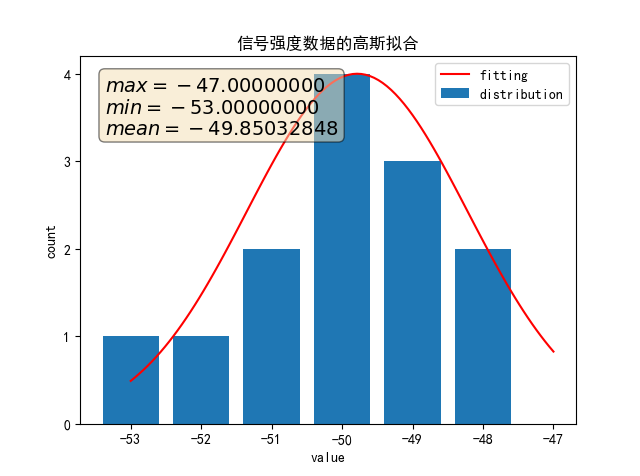
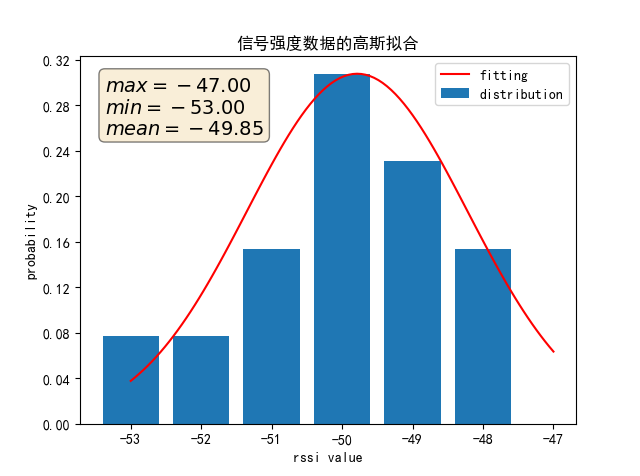
REDDME.md updated

diff --git a/location/pdr.py b/location/pdr.py
@@ -215,9 +215,9 @@ class Model(object):
                     counter[k] = counter[k]+1
         
         textstr = '\n'.join((
-            r'$max=%.8f$' % (acc_max, ),
-            r'$min=%.8f$' % (acc_min, ),
-            r'$mean=%.8f$' % (np.mean(data), )))
+            r'$max=%.3f$' % (acc_max, ),
+            r'$min=%.3f$' % (acc_min, ),
+            r'$mean=%.3f$' % (np.mean(data), )))
         _, ax = plt.subplots()
         props = dict(boxstyle='round', facecolor='wheat', alpha=0.5)
         ax.text(0.05, 0.95, textstr, transform=ax.transAxes, fontsize=14,

diff --git a/README.md b/README.md
@@ -28,8 +28,8 @@
 | **data** | **实验数据** |
 |:--|---|
 | data/count_steps | 正常直线行走数据，包含了安卓或苹果设备采集的数据，用来判断步伐检测的结果是否良好，其中安卓程序为自己开发的程序，苹果数据采集程序为phyphox（使用的时候注意修改属性名，方便后续程序使用）。 |
-| data/fusion01          | 第一次融合定位实验，由于安卓Wi-Fi扫描频率较低，不能满足事实定位，因为在实际实验的时候每一个状态维持的时间大约在3s以上，具体数据包含了：Fingerprint（指纹数据）、Rectangle（矩阵路线行走数据）和SType（S型路线行走数据）。 |
-| data/fusion02          | 第二次融合定位实验，具体数据包含了：Fingerprint（指纹数据）、LeftBorder（左边缘测试点）、RightBorder（右边缘测试点）和LType（L型路线行走数据）。 |
+| data/pdr       | 非正常行走数据（每一步停留了3s以上），Rectangle（矩阵路线行走数据）和SType（S型路线行走数据）。 |
+| data/fusion          | 融合定位实验，具体数据包含了：Fingerprint（指纹数据）、LeftBorder（左边缘测试点）、RightBorder（右边缘测试点）和LType（L型路线行走数据）。 |
 | data/linear_08m        | 正常直线行走数据，行走步数为10步，每一步为固定步长0.8m。     |
 | data/rssi_fluctuation  | 一组长时间记录Wi-Fi变化的数据，每个文件大约记录2万条样本数据，该数据可以用来分析Wi-Fi数据的波动情况。 |
 | data/still             | 静止数据，用来分析惯性传感器数据的特性。                     |
@@ -263,7 +263,7 @@ sum: 0.341719
 
 ### Demo1.6 step_heading函数：步长推算函数
 
-实验过程中手机采用HOLDING模式，即手握手机放在胸前，并且x轴与地面平行，`step_heading`直接返回每一时刻的偏航角yaw值，初始值设为0。
+实验过程中手机采用HOLDING模式，即手握手机放在胸前，并且x轴与地面平行，`step_heading`直接返回每一时刻的偏航角yaw值，初始值默认设为0，这里的都是相对值。
 
 ```python
 yaw = pdr.step_heading()
@@ -485,8 +485,8 @@ angle # 航向角序列
 L # 步长序列
 
 sigma_wifi = 2
-sigma_pdr = .5
-sigma_yaw = 15/360
+sigma_pdr = .2
+sigma_yaw = 10/360
 L # 步长序列
 
 # 状态转移函数（参入包含所有状态参数的数组）
